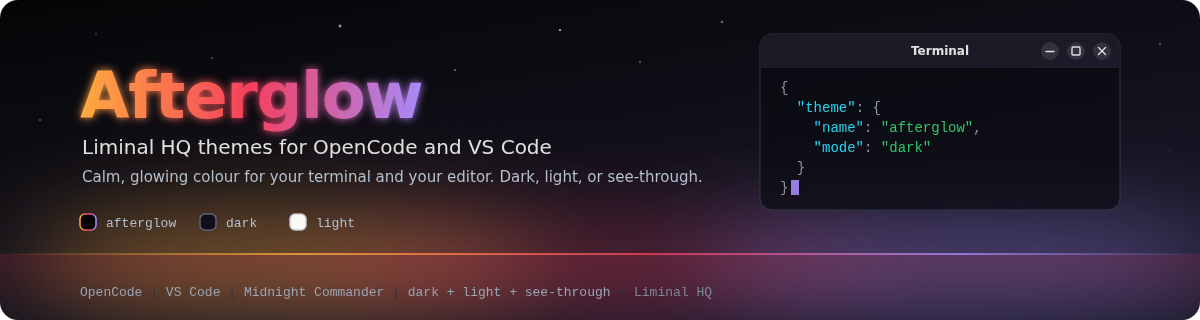
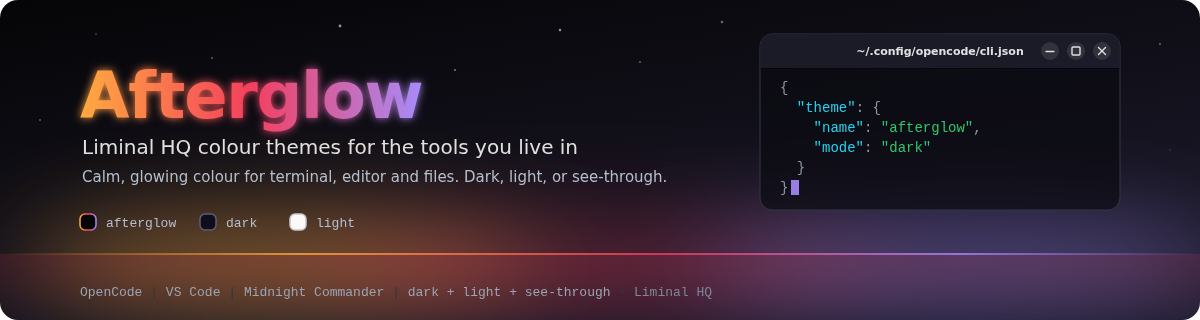
docs: generalise the hero subtitle and restore the config path title
- **Subtitle.** "Liminal HQ colour themes for the tools you live in", with a tagline that covers
  the terminal, editor and files, since the themes now span OpenCode, VS Code and Midnight
  Commander. The alt text and description follow.
- **Window title.** The GNOME-style header shows the config path again instead of "Terminal".

Changed region(s): [[0.2158, 0.5312, 0.5858, 0.5938], [0.1542, 0.4375, 0.4933, 0.5], [0.7092, 0.125, 0.8633, 0.1875]]

diff --git a/README.md b/README.md
@@ -1,7 +1,7 @@
 # Afterglow
 
 <p align="center">
-  <img src="assets/hero.svg" alt="Afterglow — Liminal HQ themes for OpenCode and VS Code" width="100%">
+  <img src="assets/hero.svg" alt="Afterglow — Liminal HQ colour themes for the tools you live in" width="100%">
 </p>
 
 <p align="center">
